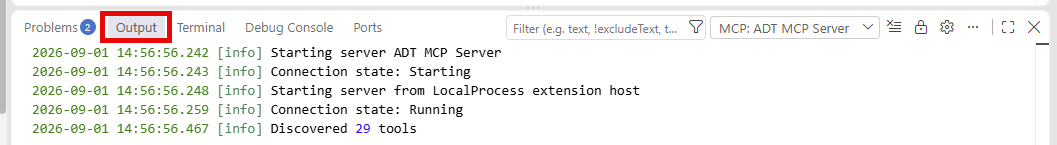
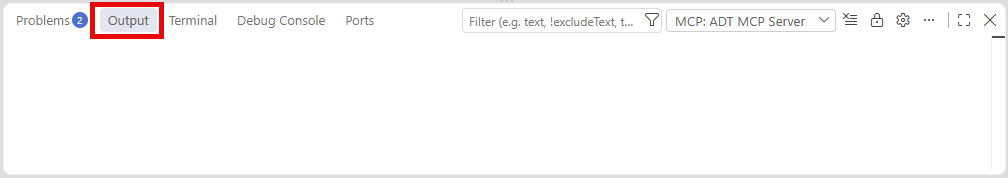
update4

Changed region(s): [[0.0, 0.0, 1.0, 1.0], [0.0308, 0.8552, 0.3998, 0.9379]]

diff --git a/tutorials/abap-dev-adt-mcp-server-tools/abap-dev-adt-mcp-server-tools.md b/tutorials/abap-dev-adt-mcp-server-tools/abap-dev-adt-mcp-server-tools.md
@@ -124,11 +124,11 @@ After enabling the setting and having a destination in the workspace, the server
 
 ### Method 3: Check the display in the Output view
 
-1. Open the **Output** view on the bottom.
+5. Open the **Output** view beneath the editor.
 
    ![MCP Server listed in the Output view](images/ex0_output_server.png)
 
-2. Select **MCP: ADT MCP Servers** from the drop-down list.
+6. Select **MCP: ADT MCP Servers** from the drop-down list. Then, the status will be displayed in the **Output** view.
 
    ![MCP Server listed and running in the Output view](images/ex0_output_verfication_mcp.png)
 
@@ -136,9 +136,10 @@ After enabling the setting and having a destination in the workspace, the server
 
 If the ADT MCP Server does not appear or fails to start:
 
-1. **Disable and re-enable** the 'Adt: Enable MCP Server' setting.
-2. **Remove** the destination folder from the workspace and **add it back** (Command Palette → 'ABAP: Add Destination as Folder to the Workspace...').
-3. **Restart** Visual Studio Code.
+1. Disable and re-enable the **Adt: Enable MCP Server** setting.
+
+2. Remove the destination folder from the workspace and **add it back** from the Command Palette → 'ABAP: Add Destination as Folder to the Workspace...'.
+3. Restart Visual Studio Code.
 
 </details>
 
@@ -147,7 +148,7 @@ If the ADT MCP Server does not appear or fails to start:
 ## Exercise 1.3: Verify the ADT MCP Tools in your coding agent
 [^Top of page](#)
 
-> Open your coding agent in agent mode and confirm that the ADT MCP tools are loaded and available.
+> Open the **Chat** view of your coding agent in agent mode and confirm that the ADT MCP tools are loaded and available.
 
 <details>
   <summary>🔵 Click to expand!</summary>
@@ -160,8 +161,6 @@ If the ADT MCP Server does not appear or fails to start:
    - Click the **Copilot** icon in the **Activity Bar** (left),
    - choose *View* > *Chat* from the menu, or    
    - press **'Ctrl+Shift+I'** (macOS: **'Cmd+Shift+I'**)
-
-
 
 2. Switch the chat mode to **Agent** in the chat dropdown.
 
